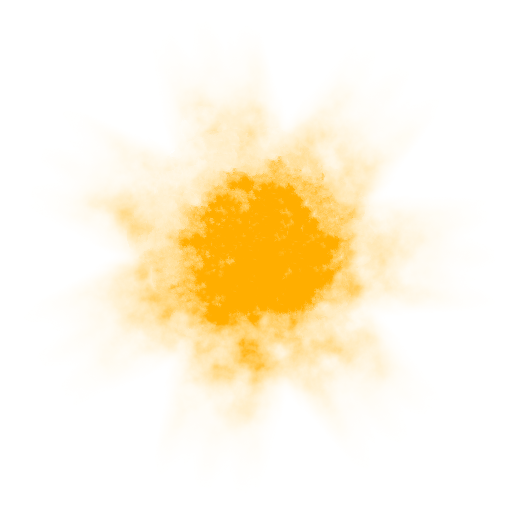
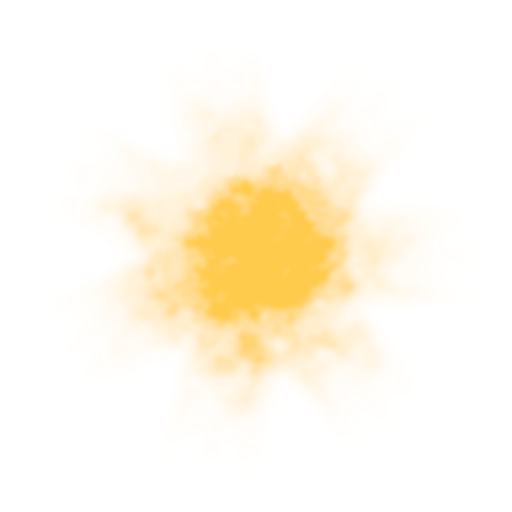
fixes

Changed region(s): [[0.1562, 0.1875, 0.8125, 0.8438], [0.7188, 0.7188, 0.75, 0.75], [0.5938, 0.75, 0.625, 0.7812]]

diff --git a/apps/ultra-ace-web/src/ui/Reel.tsx b/apps/ultra-ace-web/src/ui/Reel.tsx
@@ -2,6 +2,8 @@ import './reel.css'
 import type { CascadePhase } from '../hooks/useCascadeTimeline'
 import { SYMBOL_MAP } from './symbolMap'
 import { CSSProperties } from 'react'
+import scorchCore from '../assets/vfx/scorch_02.png'
+import scorchRays from '../assets/vfx/scorch_01.png'
 
 export interface UISymbol {
   id: string
@@ -155,8 +157,8 @@ export function Reel({ symbols, reelIndex, winningPositions, phase, layer }: Pro
             {/* Highlight underlay */}
             {isWin && phase === 'highlight' && (
               <div className="scorch-under">
-                <img src="/src/assets/vfx/scorch_02.png" className="scorch core" />
-                <img src="/src/assets/vfx/scorch_01.png" className="scorch rays" />
+                <img src={scorchCore} className="scorch core" />
+                <img src={scorchRays} className="scorch rays" />
               </div>
             )}
           </div>

diff --git a/apps/ultra-ace-web/src/App.css b/apps/ultra-ace-web/src/App.css
@@ -1471,12 +1471,12 @@
             #5c1200 100%
     );
 
-    -webkit-mask-image: url('./assets/images/scorch_01.png');
+    -webkit-mask-image: url('../assets/images/scorch_01.png');
     -webkit-mask-repeat: no-repeat;
     -webkit-mask-position: center;
     -webkit-mask-size: contain;
 
-    mask-image: url('./assets/images/scorch_01.png');
+    mask-image: url('../assets/images/scorch_01.png');
     mask-repeat: no-repeat;
     mask-position: center;
     mask-size: contain;
